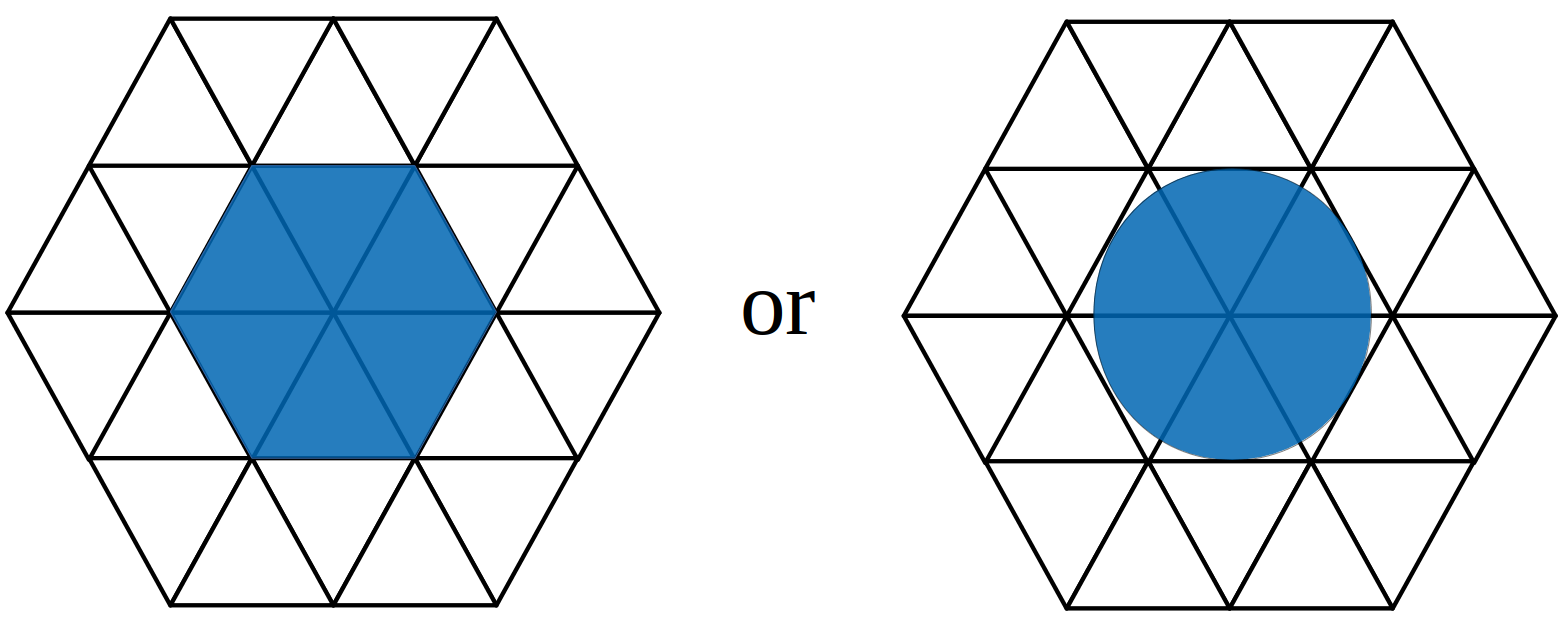
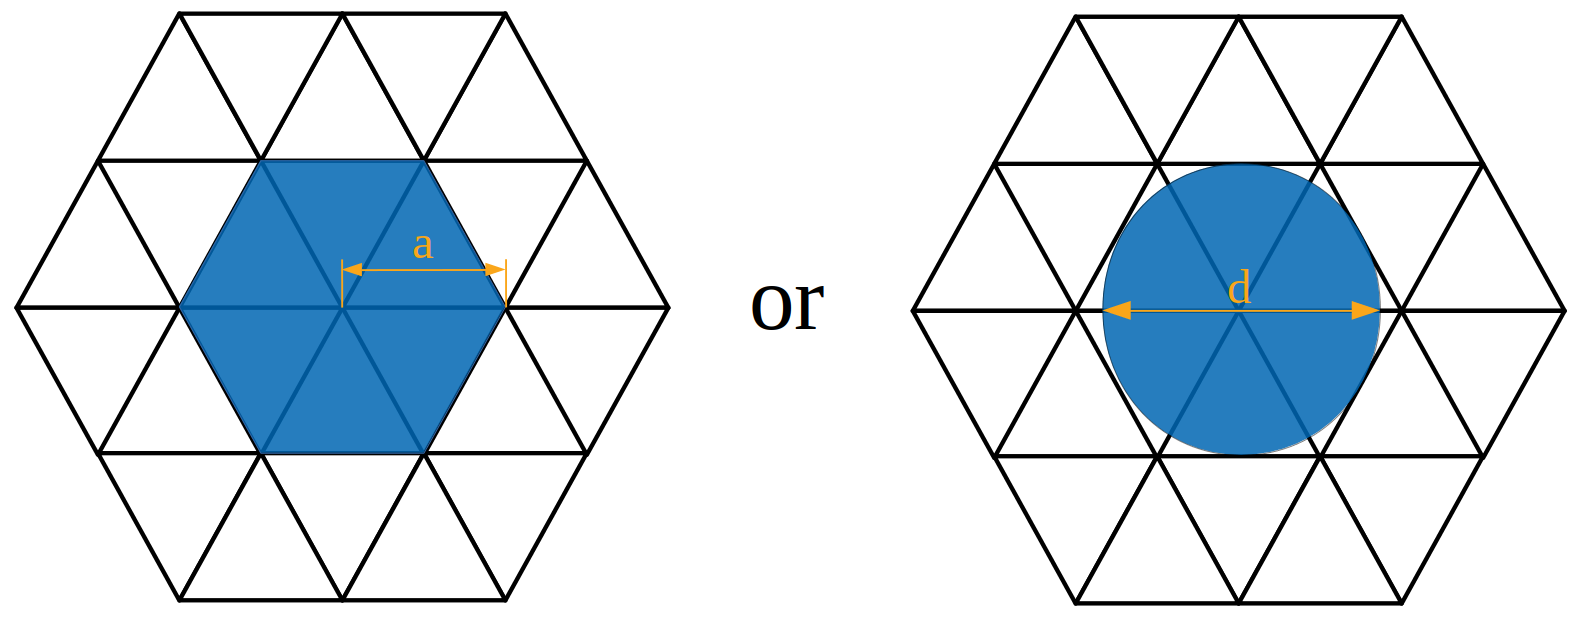
Change image and fix

diff --git a/README.md b/README.md
@@ -3,7 +3,7 @@ The Python implementation of an exact solution for the hard hexagon model, propo
 
 ## Description
 
-A schematic representation of the model is shown in the figure. Alternatively, the model can be formulated as a model of hard disks of size <img src="images/disk_formula.png" height="19" /> and on a triangular lattice, where <i>d</i> is hard disk diameter and <i>a</i> is lattice spacing.
+A schematic representation of the model is shown in the figure. Alternatively, the model can be formulated as a model of hard disks of size <img src="images/disk_formula.png" height="19" /> on a triangular lattice, where <i>d</i> is hard disk diameter and <i>a</i> is lattice spacing.
 
 <p align="center"><img src="images/hardhex.png" width="500" /></p>
 
